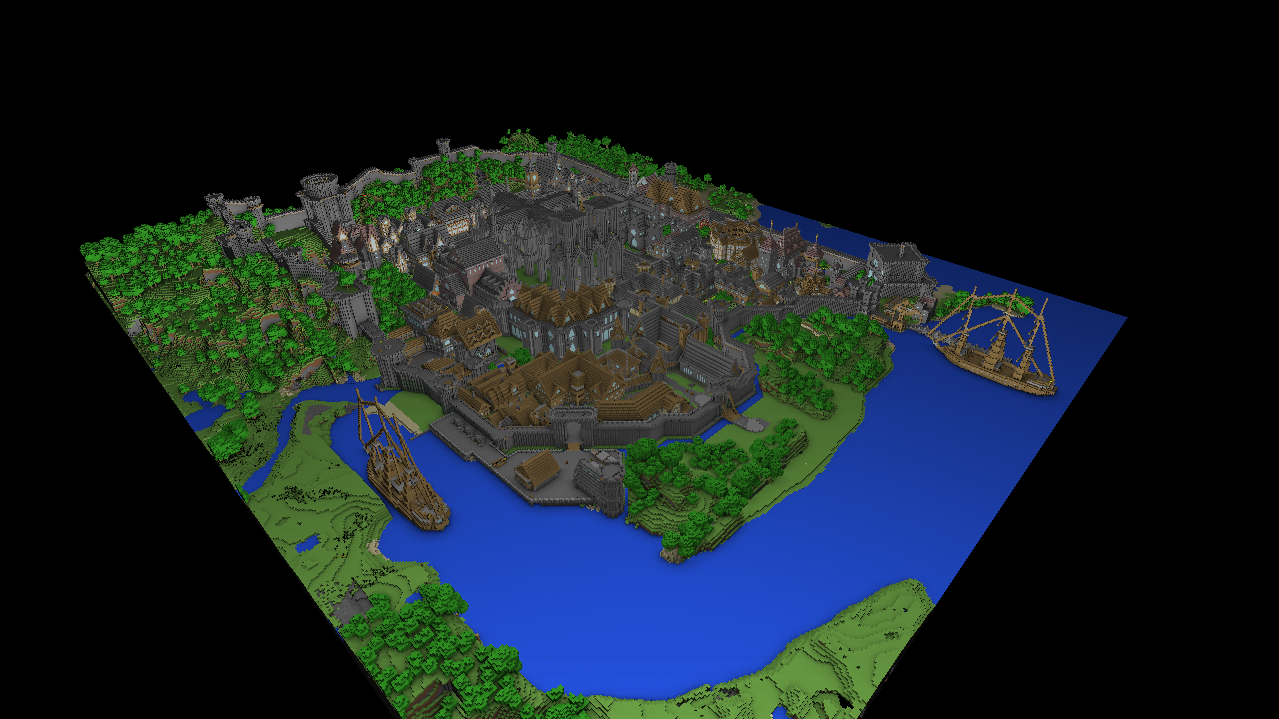
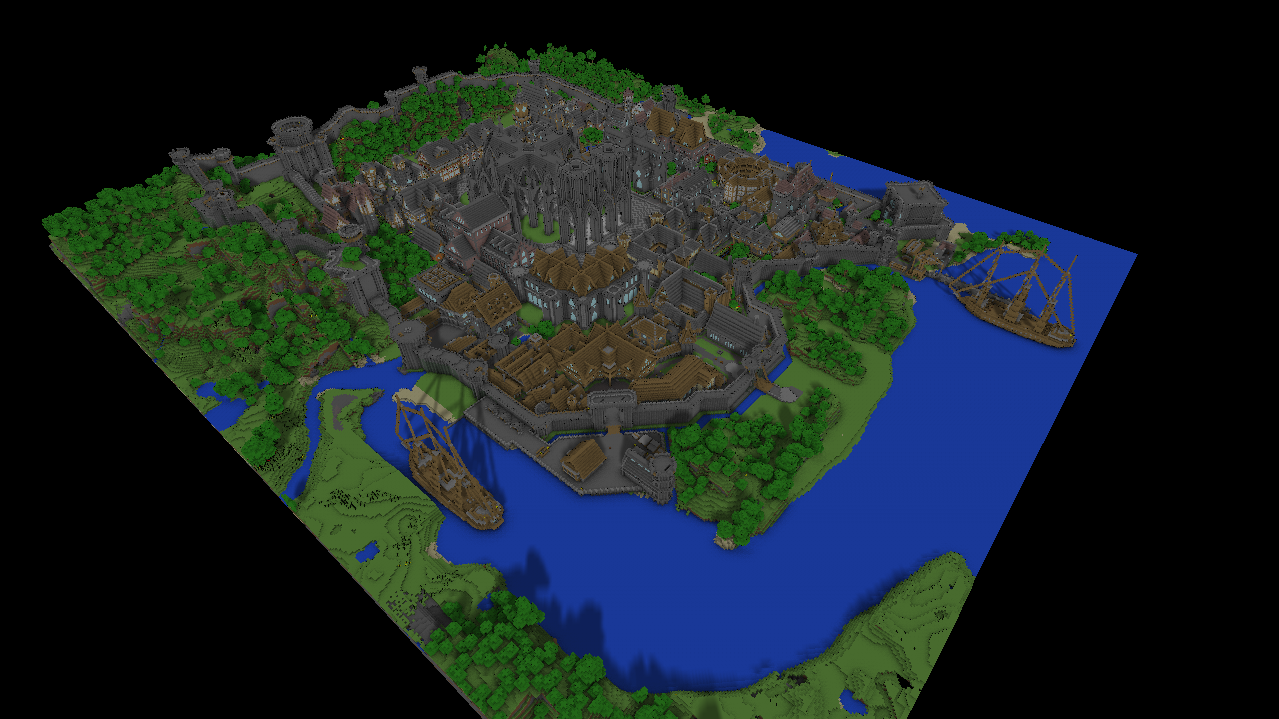
updated deferred page with shadows

diff --git a/projects/deferred.md b/projects/deferred.md
@@ -8,7 +8,7 @@ style:		dark
 ### A Rendering Engine written in C++ and OpenGL
 
 ![The Rungholt scene rendered with simple diffuse lighting and SSAO](../images/deferred.png)
-*The Rungholt scene rendered with simple diffuse lighting and SSAO*
+*The Rungholt scene rendered with diffuse lighting, SSAO, and shadow mapping*
 
 ### Overview ###
 This rendering engine, which is still under development, is being used in "Array", an upcoming 3D puzzle-action game for Cornell's Advanced Game Design class. I am also using this as an opportunity to explore what it takes to create a complete rendering engine from scratch. The goal for this project is to create an engine capable of a toon-shading style with advanced post-processing effects and support for various light volumes while still being performant enough to support a real-time game.
@@ -21,8 +21,8 @@ The code is also available at my [github repository](https://github.com/JAGJ10/D
 - **Octree** - A data structure used for spatial partitioning which culls objects not currently in the view area. This decreases the amount of geometry that needs to be drawn each frame, greatly increasing performance.
 - **Screen-Space Ambient Occlusion** - Using the hemisphere variant of the technique developed by Crytek, a cheap ambient occlusion calculation is made before lighting is computed. This gives a greater sense of depth by making "occluded" areas darker.
 - **Light Volumes** - Point lights and spot lights are represented by meshes which allows the lighting calculations to only be performed on pixels within the affected area. This greatly decreases computational costs which is important when many lights are in the scene.
+- **Shadow Mapping** - Shadow maps are calculated for each light in the scene at half resolution (with the exception of the directional light which will have a larger resolution for quality) to generate shadows in the scene. Since shadow mapping is a relatively cheap operation, it will be possible to do this even for a large amount of light geometry. Additionally, Percentage Closer Filtering is used to generate softer shadows for the edges.
 - **Depth of Field (under development)** - This effect will blur the part of the screen that is not centered, giving a kind of "focus" to what the camera is currently looking at.
-- **Shadow Mapping (under development** - Shadow maps will be calculated for each light in the scene at half resolution (with the exception of the directional light which will have a larger resolution for quality) to generate shadows in the scene. Since shadow mapping is a relatively cheap operation, it will be possible to do this even for a large amount of light geometry.
 - **Bloom (under development)** - By making a copy of the current frame and slightly blurring it, a simple bloom effect can be achieved. This will make the bright areas "bleed" over into other areas which enhances the realism of the scene. Even with toon-shading, this feature can have a pleasant effect as seen in the Wii U version of The Legend of Zelda - Wind Waker.
 
 ### Acknowledgements ###
